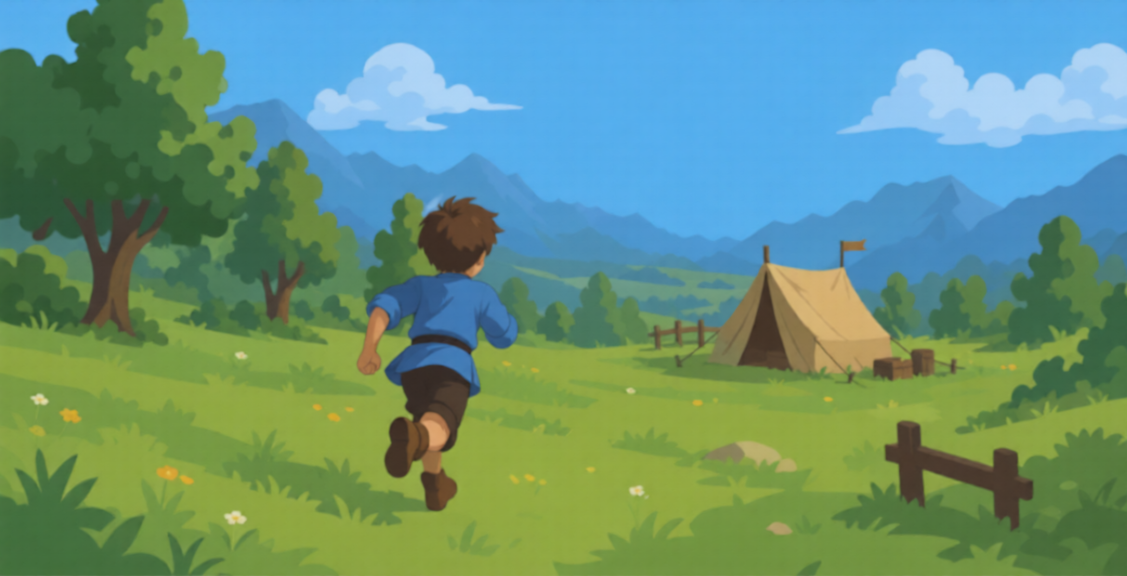
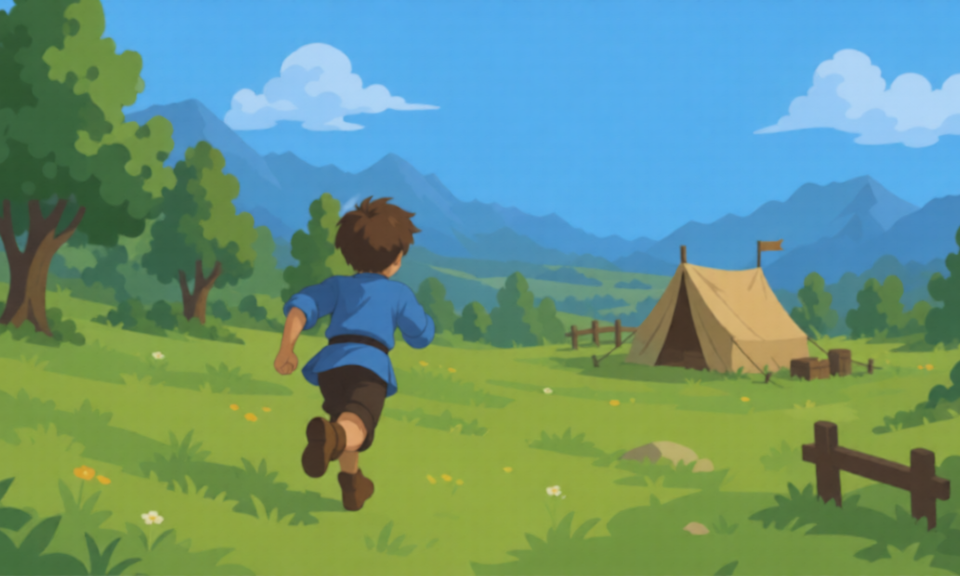
cutscence optimise image loading

diff --git a/src/story.js b/src/story.js
@@ -11,24 +11,54 @@ export function createStoryController({
   const imageCache = {};
   let currentOnComplete = null;
 
-  function imageFor(src, fallbackSrc = null) {
+  function setImageFetchPriority(image, fetchPriority) {
+    if (fetchPriority && "fetchPriority" in image) {
+      image.fetchPriority = fetchPriority;
+    }
+  }
+
+  function prewarmImageRecord(imageRecord) {
+    imageRecord.decodeOnLoad = true;
+    if (!imageRecord.image.decode) return Promise.resolve();
+    if (imageRecord.decodePromise) return imageRecord.decodePromise;
+
+    imageRecord.decodePromise = imageRecord.image.decode().catch(() => null);
+    return imageRecord.decodePromise;
+  }
+
+  function imageFor(src, fallbackSrc = null, options = {}) {
     const cacheKey = fallbackSrc ? `${src}|${fallbackSrc}` : src;
-    if (imageCache[cacheKey]) return imageCache[cacheKey];
+    if (imageCache[cacheKey]) {
+      setImageFetchPriority(imageCache[cacheKey].image, options.fetchPriority);
+      return imageCache[cacheKey];
+    }
 
     const image = new Image();
+    image.decoding = "async";
+    setImageFetchPriority(image, options.fetchPriority);
+
     const imageRecord = {
       image,
       ready: false,
-      activeSrc: src
+      activeSrc: src,
+      decodeOnLoad: false,
+      decodePromise: null
     };
 
     image.addEventListener("load", () => {
       imageRecord.ready = true;
+      if (imageRecord.decodeOnLoad) {
+        prewarmImageRecord(imageRecord);
+      }
     });
     image.addEventListener("error", () => {
       if (fallbackSrc && imageRecord.activeSrc !== fallbackSrc) {
         imageRecord.activeSrc = fallbackSrc;
+        imageRecord.decodePromise = null;
         image.src = fallbackSrc;
+        if (imageRecord.decodeOnLoad) {
+          prewarmImageRecord(imageRecord);
+        }
         return;
       }
 
@@ -38,6 +68,30 @@ export function createStoryController({
     image.src = src;
     imageCache[cacheKey] = imageRecord;
     return imageRecord;
+  }
+
+  function imageStepsForCutscene(id = null) {
+    const scenes = id ? [cutscenes[id] || []] : Object.values(cutscenes);
+    return scenes.flatMap((steps) => steps.filter((step) => step.type === "image"));
+  }
+
+  function preloadCutsceneImages(id = null) {
+    const preloadPromises = imageStepsForCutscene(id).map((step) => {
+      const imageRecord = imageFor(step.src, step.fallbackSrc, { fetchPriority: "low" });
+      return prewarmImageRecord(imageRecord);
+    });
+
+    return Promise.allSettled(preloadPromises);
+  }
+
+  function schedulePreloadCutsceneImages(id = null) {
+    const preload = () => preloadCutsceneImages(id);
+    if (typeof window !== "undefined" && "requestIdleCallback" in window) {
+      window.requestIdleCallback(preload, { timeout: 1500 });
+      return;
+    }
+
+    setTimeout(preload, 250);
   }
 
   function activeCutsceneSteps() {
@@ -53,7 +107,7 @@ export function createStoryController({
       if (step.type === "image") {
         gameState.cutscene.imageSrc = step.src;
         gameState.cutscene.fallbackImageSrc = step.fallbackSrc || null;
-        imageFor(step.src, step.fallbackSrc);
+        imageFor(step.src, step.fallbackSrc, { fetchPriority: "high" });
         gameState.cutscene.index += 1;
         continue;
       }
@@ -126,7 +180,9 @@ export function createStoryController({
     const cutscene = gameState.cutscene;
     if (!cutscene) return;
 
-    const imageRecord = cutscene.imageSrc ? imageFor(cutscene.imageSrc, cutscene.fallbackImageSrc) : null;
+    const imageRecord = cutscene.imageSrc
+      ? imageFor(cutscene.imageSrc, cutscene.fallbackImageSrc, { fetchPriority: "high" })
+      : null;
     if (imageRecord?.ready && imageRecord.image.complete && imageRecord.image.naturalWidth > 0) {
       drawCoverImage(imageRecord.image);
     } else {
@@ -155,6 +211,8 @@ export function createStoryController({
   return {
     advanceCutscene,
     drawCutscene,
+    preloadCutsceneImages,
+    schedulePreloadCutsceneImages,
     startCutscene
   };
 }

diff --git a/index.html b/index.html
@@ -5,6 +5,8 @@
   <meta name="viewport" content="width=device-width, initial-scale=1.0">
   <title>Orb Bound</title>
   <link rel="preload" as="image" href="assets/menu.png" type="image/png" fetchpriority="high">
+  <link rel="prefetch" as="image" href="assets/story/meadow-dawn.png" type="image/png">
+  <link rel="prefetch" as="image" href="assets/story/faint.png" type="image/png">
   <link rel="preconnect" href="https://fonts.googleapis.com">
   <link rel="preconnect" href="https://fonts.gstatic.com" crossorigin>
   <link href="https://fonts.googleapis.com/css2?family=Press+Start+2P&family=Outfit:wght@400;600;700&display=swap" rel="stylesheet">

diff --git a/src/game.js b/src/game.js
@@ -293,6 +293,8 @@ const {
   drawText
 });
 
+storyController.schedulePreloadCutsceneImages();
+
 function createCreatureInstance(species, overrides = {}) {
   const template = creatureTemplates[species];
   const level = Number.isFinite(overrides.level)